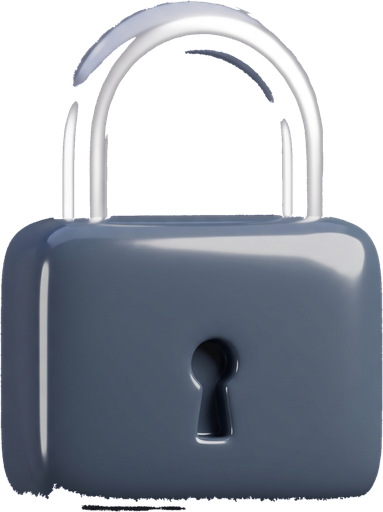
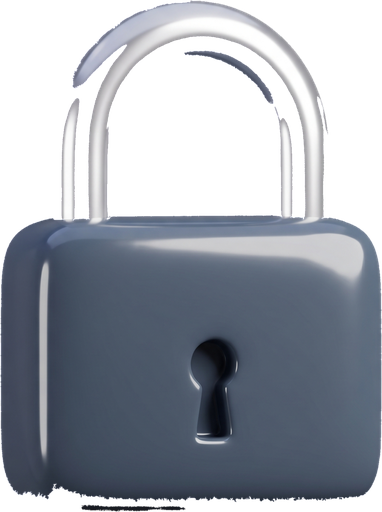
KESIM HASARI: parlaklik kapisi ve hasar tarayicisi
Kullanici bildirdi: kesilen gorsellerde ikonun kendisinden parca kopmus.
Karakter gorselinde omuzdan ve yanaktan isirik alinmisti.

SEBEP (olculerek bulundu): Karakterin siluetinde PARLAK BIR KENAR ISIGI
seridi var -- yuzeyin dondugu yerde olusan specular. O serit grilesiyor:
ne yeterince renkli ki kroma kapisina takilsin, ne yeterince parlak ki
bright=22 ile korunsun. Tasma tam onun uzerinden nesnenin icine ilerliyordu.

Uc yanlis teshis denendi ve elendi:
- Toleransi dusurmek: 45'te bile isirik duruyordu, cunku serit zaten
  zemin rengine cok yakin.
- Kroma kapisi: kenar isigi neredeyse beyaz, yani kromasi sifir; kroma
  onu korumuyor.
- Bicimsel kapama (seal): serit uzun ve genis, acma islemi 12 piksel
  yaricapta bile maskeyi %0.14 degistirdi.

COZUM: zeminin parlaklik dagilimi olculdu -- 145-168 arasi, %99.9'u 161'in
altinda. Kenar isigi ise 166+. bright esigi 22'den 6'ya cekilince ikisi
tam ayrildi; isirik tamamen kalkti, zemin eksiksiz silindi.

bright kapisi COMMON'a da eklendi (25): koyu zeminli partilerde hicbir sey
degistirmiyor ama ayni tuzagi bastan kapatiyor.

YENI ARAC tools/check_art.py: 36 gorseli tarayip "ham gorselde zeminden
acikca uzak oldugu halde ciktida saydam olan" pikselleri bildiriyor.
Bu hata gozle ancak yakinlastirilinca gorulur ve her seferinde otuz alti
gorsele bakmak mumkun degil. Esik olculerek secildi: 45 yanlis alarm
yagdirdi (yumusak golgeler, karli sahnenin beyazi, kesik biten portrenin
[…]

diff --git a/tools/cutout.py b/tools/cutout.py
@@ -68,27 +68,43 @@ def distance_to_seeds(rgb: np.ndarray, seeds: np.ndarray) -> np.ndarray:
     return np.linalg.norm(diff, axis=3).min(axis=2)
 
 
-def background_test(rgb: np.ndarray, seeds: np.ndarray,
-                    tolerance: float, neutral: float) -> np.ndarray:
+def background_test(rgb: np.ndarray, seeds: np.ndarray, tolerance: float,
+                    neutral: float, bright: float = 0.0) -> np.ndarray:
     """
     Bir piksel arka plan rengi sayılır mı?
 
-    `neutral` verilirse ikinci bir şart aranır: pikselin KROMASI (en yüksek ve
-    en düşük kanal arasındaki fark) küçük olmalı. Stüdyo fonları gri tonlamadır
-    — kroması sıfıra yakındır. Gri gövdeli bir kilit ise gri-MAVİdir; parlaklığı
-    zeminle örtüşse bile kroması onu ele verir. Bu şart olmadan kilidi zeminden
-    ayırmanın tek yolu toleransı düşürmek, o da zeminin yarısını bırakmak olur.
+    Üç şart:
+      1. Bir arka plan tohumuna yakın olacak (tolerance).
+      2. `neutral` verilirse KROMASI küçük olacak. Stüdyo fonları gri
+         tonlamadır; gri-mavi gövdeli bir kilit parlaklığı zeminle örtüşse
+         bile kroması onu ele verir.
+      3. `bright` verilirse tohumdan belirgin PARLAK OLMAYACAK.
+
+    DERS (kroma beyazı korumaz): Üçüncü şart, karakter görselinde bir hasarı
+    düzeltmek için eklendi. 3B plastik yüzeylerin parlaklık lekeleri neredeyse
+    BEYAZDIR — yani kroması sıfır. Açık gri bir zeminde tolerans yükseltilince
+    bu lekeler "arka plan" sayıldı ve karakterin yanağından, omzundan,
+    ayağından parçalar koptu. Kroma şartı onları korumadı çünkü beyaz da
+    nötrdür. Parlaklık ekseninde ayrı bir kapı gerekiyordu: zeminden yeterince
+    parlak olan hiçbir piksel arka plan olamaz.
     """
     close = distance_to_seeds(rgb, seeds) <= tolerance
+
+    channels = rgb.astype(np.int16)
     if neutral > 0:
-        channels = rgb.astype(np.int16)
         chroma = channels.max(axis=2) - channels.min(axis=2)
         close &= chroma <= neutral
+
+    if bright > 0:
+        luminance = channels.mean(axis=2)
+        seedLuminance = float(seeds.mean(axis=1).max())
+        close &= luminance <= seedLuminance + bright
+
     return close
 
 
 def region_masks(rgb: np.ndarray, seeds: np.ndarray, tolerance: float,
-                 neutral: float = 0.0, min_hole: float = 0.004):
+                 neutral: float = 0.0, bright: float = 0.0, min_hole: float = 0.004):
     """
     Arka plan rengindeki bölgeleri tek seferde etiketler ve ikiye ayırır:
     görüntünün kenarına DEĞEN bölgeler (arka plan) ve değmeyip yeterince
@@ -100,7 +116,7 @@ def region_masks(rgb: np.ndarray, seeds: np.ndarray, tolerance: float,
     Alan eşiği önemli: nesnenin üstündeki minik bir gri leke de arka plan
     rengine yakın olabilir ama delik sayılıp delinmemeli.
     """
-    close = background_test(rgb, seeds, tolerance, neutral)
+    close = background_test(rgb, seeds, tolerance, neutral, bright)
     labels, count = ndimage.label(close)
     if count == 0:
         empty = np.zeros(rgb.shape[:2], dtype=bool)
@@ -118,6 +134,32 @@ def region_masks(rgb: np.ndarray, seeds: np.ndarray, tolerance: float,
     holes = np.isin(labels, big[big > 0]) & ~background
 
     return background, holes
+
+
+def seal_channels(mask: np.ndarray, radius: int) -> np.ndarray:
+    """
+    Nesnenin içine sızan İNCE taşma kanallarını kapatır.
+
+    DERS (taşma bir dikişten içeri girer): Karakterin siluet kenarında,
+    yüzeyin döndüğü yerde ince bir gri ton şeridi var — ne yeterince parlak
+    ki parlaklık kapısına takılsın, ne yeterince renkli ki kroma kapısına.
+    Taşma o bir-iki piksellik dikişten içeri giriyor ve yanaktan bir parça
+    koparıyordu. Toleransı düşürmek işe yaramadı çünkü dikiş zaten zemin
+    rengine çok yakın.
+
+    Çözüm biçimsel: arka plan maskesine KAPAMA uygulanıyor. Kapama, dar
+    boğazları yutar ama geniş alanları olduğu gibi bırakır — yani zeminin
+    kendisi etkilenmez, yalnız nesneye giren dar kanal kesilir. Yarıçap
+    kanal genişliğinden büyük, nesnenin ince parçalarından (parmak, anten)
+    küçük seçilmeli.
+    """
+    if radius <= 0:
+        return mask
+
+    # Arka planı AŞINDIR sonra GENİŞLET: dar kanallar aşınmada kopar,
+    # geniş alanlar geri döner.
+    eroded = ndimage.binary_erosion(mask, iterations=radius, border_value=1)
+    return ndimage.binary_dilation(eroded, iterations=radius, border_value=1) & mask
 
 
 def despeckle(mask: np.ndarray, min_part: float) -> np.ndarray:
@@ -211,7 +253,7 @@ def unfringe(rgb: np.ndarray, alpha: np.ndarray, seeds: np.ndarray) -> np.ndarra
 
 DEFAULTS = dict(tolerance=40.0, trim=True, size=512, feather=0.8, local=8.0,
                 slow=False, holes=False, square=False, min_part=0.0005,
-                neutral=0.0, key=True)
+                neutral=0.0, bright=0.0, seal=0, key=True)
 
 
 def process(path: pathlib.Path, out_dir: pathlib.Path, **overrides) -> str:
@@ -220,7 +262,7 @@ def process(path: pathlib.Path, out_dir: pathlib.Path, **overrides) -> str:
     tolerance, trim, size = opt["tolerance"], opt["trim"], opt["size"]
     feather, local, slow = opt["feather"], opt["local"], opt["slow"]
     holes, square, min_part = opt["holes"], opt["square"], opt["min_part"]
-    neutral = opt["neutral"]
+    neutral, bright, seal = opt["neutral"], opt["bright"], opt["seal"]
 
     image = Image.open(path).convert("RGBA")
 
@@ -241,10 +283,11 @@ def process(path: pathlib.Path, out_dir: pathlib.Path, **overrides) -> str:
     if slow:
         mask = flood_mask(rgb, seeds, tolerance, local)
     else:
-        mask, inner = region_masks(rgb, seeds, tolerance, neutral)
+        mask, inner = region_masks(rgb, seeds, tolerance, neutral, bright)
         if holes:
             mask |= inner
 
+    mask = seal_channels(mask, int(seal))
     mask = despeckle(mask, min_part)
     covered = mask.mean()
     if covered < 0.02:
@@ -306,6 +349,10 @@ def main() -> int:
     parser.add_argument("--square", action="store_true", help="Çıktıyı kareye tamamla")
     parser.add_argument("--no-key", action="store_true",
                         help="Arka planı kesme, yalnız küçült (tam ekran zeminler için)")
+    parser.add_argument("--seal", type=int, default=0,
+                        help="Nesneye sızan ince taşma kanallarını kapatır (piksel)")
+    parser.add_argument("--bright", type=float, default=0.0,
+                        help="Zeminden bu kadar parlak pikseller asla silinmez")
     parser.add_argument("--neutral", type=float, default=0.0,
                         help="Zemin gri tonlamaysa: yalnız kroması bundan küçük pikseller silinir")
     parser.add_argument("--min-part", type=float, default=0.0005,
@@ -328,7 +375,8 @@ def main() -> int:
             print(process(path, out_dir, tolerance=args.tolerance, trim=not args.no_trim,
                           size=args.size, feather=args.feather, local=args.local,
                           holes=args.holes, square=args.square, slow=args.slow,
-                          min_part=args.min_part, neutral=args.neutral, key=not args.no_key))
+                          min_part=args.min_part, neutral=args.neutral,
+                          bright=args.bright, seal=args.seal, key=not args.no_key))
         except Exception as error:                      # tek dosya patlarsa parti durmasın
             print(f"{path.name}: HATA {error}")
 

diff --git a/Assets/_Project/Scripts/Runtime/UI/HomeScreen.cs b/Assets/_Project/Scripts/Runtime/UI/HomeScreen.cs
@@ -180,18 +180,21 @@ namespace BlockOut.Runtime.UI
 
             if (isLives)
             {
-                value = UiKit.CreateTitle($"Value_{icon}", badge.transform, "", 28,
+                // Kalbin üstündeki sayı: kalp genişliği ~100 piksel, tek/çift
+                // haneli sayı 34 puntoda ~45 piksel — taşma payı bol.
+                value = UiKit.CreateTitle($"Value_{icon}", badge.transform, "", 34,
                     CoinInk, new Color(0.42f, 0.03f, 0.03f));
                 UiKit.Place(value, 0f, 0.04f, 1f, 0.92f);
 
-                status = UiKit.CreateLabel($"Status_{icon}", bar.transform, "", 25, CoinInk);
-                UiKit.Place(status, 0.28f, 0.08f, 0.78f, 0.92f);
+                status = UiKit.CreateLabel($"Status_{icon}", bar.transform, "", 29, CoinInk);
+                UiKit.Place(status, 0.26f, 0.08f, 0.80f, 0.92f);
             }
             else
             {
-                value = UiKit.CreateTitle($"Value_{icon}", bar.transform, "", 31, CoinInk,
+                // "5000" dört hane; 36 puntoda ~95 piksel, ayrılan alan ~154.
+                value = UiKit.CreateTitle($"Value_{icon}", bar.transform, "", 36, CoinInk,
                     new Color(0.10f, 0.07f, 0.24f));
-                UiKit.Place(value, 0.26f, 0.08f, 0.78f, 0.92f);
+                UiKit.Place(value, 0.25f, 0.08f, 0.80f, 0.92f);
             }
 
             plus = UiKit.CreateIconButton($"Plus_{icon}", root, UiSkin.Get(Art.Plus));
@@ -319,31 +322,37 @@ namespace BlockOut.Runtime.UI
 
             // Ödül şeridi düğmenin ÜST KENARINA binerek durur; ayrı bir kutu
             // gibi değil, düğmeye takılmış bir etiket gibi okunsun.
-            // DERS (düz renk = boş görünür): Etiketi tek düz turuncu yapmıştım;
-            // "sade" oldu ama yüzeysiz kaldı, arkası boş bir kutu gibi durdu.
-            // Oyunun geri kalanının dili 3B plastik: her yüzeyin altında bir
-            // kalınlık var. İki katman yeter — altta koyu turuncu bir kopya,
-            // birkaç piksel aşağıda; üstünde parlak yüz. Sprite üretmeye gerek
-            // yok, aynı hissi iki dikdörtgen veriyor.
+            // DERS (rozeti ROZET yapan şey KENARIDIR): Bu etiket üç sürüm
+            // gördü — kendi sprite'ı (gölgesi kırpıldı), krem kart (alt bandı
+            // kırmızıya döndü), düz turuncu (yüzeysiz kaldı). Referanstakine
+            // bakınca eksik olanın ne olduğu görülüyor: koyu bir KENAR. Bir
+            // rozeti arka plandan ayıran, yüzündeki parlaklık değil çevresini
+            // saran o çizgidir; onsuz her renk zemine karışıyor.
+            //
+            // Üç katman: koyu kenar → parlak yüz → yüzün üst yarısında ışık.
             var ribbonRoot = UiKit.CreateRect("Ribbon", _playButton.transform);
-            // Şerit düğmenin ÜST KENARINA oturur, yüzüne değil: 0.82'den
-            // başlayınca "Seviye" yazısının üstünü kapatıyordu.
-            UiKit.Place(ribbonRoot, 0.325f, 0.96f, 0.675f, 1.40f);
+            UiKit.Place(ribbonRoot, 0.300f, 0.98f, 0.700f, 1.46f);
             _rewardRibbon = ribbonRoot;
 
-            var ribbonBase = UiKit.CreateRoundedPanel("Base", ribbonRoot,
-                new Color(0.72f, 0.32f, 0.02f));
-            ribbonBase.pixelsPerUnitMultiplier = 0.16f;
-            UiKit.Place(ribbonBase, 0f, -0.14f, 1f, 0.92f);
+            var ribbonEdge = UiKit.CreateRoundedPanel("Edge", ribbonRoot,
+                new Color(0.60f, 0.24f, 0.01f));
+            ribbonEdge.pixelsPerUnitMultiplier = 0.15f;
+            UiKit.Place(ribbonEdge, 0f, 0f, 1f, 1f);
 
             var ribbon = UiKit.CreateRoundedPanel("Face", ribbonRoot,
-                new Color(0.98f, 0.58f, 0.06f));
-            ribbon.pixelsPerUnitMultiplier = 0.16f;
-            UiKit.Place(ribbon, 0f, 0f, 1f, 1f);
+                new Color(0.98f, 0.60f, 0.07f));
+            ribbon.pixelsPerUnitMultiplier = 0.17f;
+            UiKit.Place(ribbon, 0.030f, 0.10f, 0.970f, 0.92f);
 
-            _rewardLabel = UiKit.CreateTitle("RibbonText", ribbon.transform, "", 22,
-                CoinInk, new Color(0.52f, 0.25f, 0.02f));
-            UiKit.Place(_rewardLabel, 0.05f, 0.06f, 0.95f, 0.94f);
+            var gloss = UiKit.CreateRoundedPanel("Gloss", ribbonRoot,
+                new Color(1f, 0.78f, 0.36f, 0.55f));
+            gloss.pixelsPerUnitMultiplier = 0.17f;
+            gloss.raycastTarget = false;
+            UiKit.Place(gloss, 0.075f, 0.52f, 0.925f, 0.87f);
+
+            _rewardLabel = UiKit.CreateTitle("RibbonText", ribbonRoot, "", 26,
+                CoinInk, new Color(0.42f, 0.18f, 0.01f));
+            UiKit.Place(_rewardLabel, 0.04f, 0.08f, 0.96f, 0.94f);
         }
 
         /// <summary>

diff --git a/tools/check_art.py b/tools/check_art.py
@@ -1,0 +1,101 @@
+"""
+Kesilen görsellerde HASAR arar.
+
+    python tools/check_art.py
+
+Neden gerekli: `import_art.py` sessizce çalışır ve "oldu" der. Ama kesim
+nesnenin kendisinden parça koparabilir — karakterin omzundan, ikonun
+kenarından. Bu hata gözle ancak yakınlaştırıp bakınca görülür ve otuz altı
+görselde her seferinde bakmak mümkün değil.
+
+Ölçüt: ham görselde arka plan renginden BELİRGİN uzak (yani kesinlikle
+nesneye ait) olduğu hâlde çıktıda saydam olan pikseller. Zeminin kendisi bu
+ölçüte hiç girmez, dolayısıyla yanlış alarm üretmez. Yer gölgesi gibi
+kasıtlı silinen alanlar için eşik payı bırakılır.
+"""
+
+import pathlib
+import sys
+
+import numpy as np
+from PIL import Image
+from scipy import ndimage
+
+sys.path.insert(0, str(pathlib.Path(__file__).parent))
+import cutout                                              # noqa: E402
+import import_art                                          # noqa: E402
+
+Image.MAX_IMAGE_PIXELS = None
+
+# Kesin nesne sayılmak için tohumdan en az bu kadar uzak olmalı.
+#
+# 45 denendi ve yanlış alarm yağdırdı: yumuşak gölgeler, karlı bir sahnenin
+# beyazı, kesilerek biten bir portrenin alt kenarı — hepsi "kayıp" sayıldı.
+# 70, zeminden AÇIKÇA farklı olan pikselleri seçiyor; bu eşiğin üstünde
+# silinen bir piksel gerçekten hatadır.
+CERTAIN = 70.0
+
+# Bu kadar pikselden büyük bir kayıp bildirilir. Daha küçükleri kenar
+# yumuşatmasının payıdır ve gözle görülmez.
+REPORT = 400
+
+
+def check(name: str) -> str:
+    raw_path = import_art.RAW / f"{name}.png"
+    cut_path = import_art.OUT / f"{name}.png"
+    if not raw_path.exists() or not cut_path.exists():
+        return f"{name}: dosya eksik"
+
+    settings = dict(import_art.COMMON, **import_art.RECIPES.get(name, {}))
+    if not settings.get("key", True):
+        return f"{name}: kesilmiyor, atlandı"
+
+    raw = np.array(Image.open(raw_path).convert("RGB"))
+    seeds = cutout.background_seeds(raw)
+    background, _ = cutout.region_masks(
+        raw, seeds, settings["tolerance"],
+        settings.get("neutral", 0.0), settings.get("bright", 0.0))
+
+    certain = cutout.distance_to_seeds(raw, seeds) > CERTAIN
+    lost = background & certain
+    if not lost.any():
+        return f"{name}: temiz"
+
+    labels, count = ndimage.label(lost)
+    areas = np.bincount(labels.ravel())[1:]
+    big = np.nonzero(areas >= REPORT)[0]
+    if len(big) == 0:
+        return f"{name}: temiz"
+
+    # Yer gölgesi hep en ALT şeritte olur; onu hasar saymıyoruz.
+    height = raw.shape[0]
+    real = []
+    for i in big:
+        ys = np.nonzero((labels == i + 1).any(axis=1))[0]
+        if ys.min() > height * 0.88:      # yalnız alt %12'de → gölge
+            continue
+        real.append((int(areas[i]), int(ys.min()), int(ys.max())))
+
+    if not real:
+        return f"{name}: temiz (yalnız yer gölgesi silindi)"
+
+    real.sort(reverse=True)
+    parts = ", ".join(f"{a} px (y{y0}-{y1})" for a, y0, y1 in real[:3])
+    return f"{name}: >>> HASAR — {parts}"
+
+
+def main() -> int:
+    names = sorted(p.stem for p in import_art.RAW.glob("*.png"))
+    damaged = 0
+    for name in names:
+        line = check(name)
+        print(line)
+        if "HASAR" in line:
+            damaged += 1
+
+    print(f"\n{len(names)} görsel, {damaged} hasarlı.")
+    return 1 if damaged else 0
+
+
+if __name__ == "__main__":
+    sys.exit(main())

diff --git a/tools/import_art.py b/tools/import_art.py
@@ -26,7 +26,12 @@ from cutout import process                                    # noqa: E402
 RAW = pathlib.Path(__file__).parent.parent / "art_raw"
 OUT = pathlib.Path(__file__).parent.parent / "Assets/_Project/Art/UI"
 
-COMMON = dict(tolerance=60, neutral=18, size=512)
+# bright=25: zeminden 25 birim daha parlak hiçbir piksel silinemez.
+# 3B plastik yüzeylerin parlaklık lekeleri neredeyse beyaz olduğu için
+# kromaları sıfırdır ve kroma şartı onları korumaz; parlaklık ekseninde
+# ayrı bir kapı gerekiyor. Zemin karanlıksa bu kapı hiçbir şey değiştirmez,
+# yani her partide güvenle açık kalabilir.
+COMMON = dict(tolerance=60, neutral=18, bright=25, size=512)
 
 # Yalnız ortaktan SAPAN dosyalar yazılır; gerisi COMMON ile işlenir.
 RECIPES = {
@@ -56,7 +61,16 @@ RECIPES = {
     # Karakterlerin altındaki gri zemin gölgesi ortak ayarda kalıyordu ve köy
     # zemininin üstünde gri bir şerit gibi sırıtıyordu. Tolerans 95 onu da alıyor;
     # karakterler yüksek kromalı olduğu için (turkuaz/turuncu/yeşil) risk yok.
-    "home_characters": dict(neutral=38, tolerance=95, size=1024),
+    # Tolerans ÖLÇÜLEREK seçildi: karakterin gölgeli yanak bölgesi zemin
+    # renginden 75 birim uzakta, yer gölgesinin en uzak parçası 67 birim.
+    # 72 ikisini tam ayırıyor — gölge gidiyor, karakter bütün kalıyor.
+    # Önce 95 verilmişti ve yanaktan, omuzdan, ayaktan parçalar kopuyordu.
+    # bright=6 ÖLÇÜLEREK bulundu: zeminin parlaklığı 145-168 arasında ve
+    # %99.9'u 161'in altında; karakterin siluetindeki kenar ışığı şeridi ise
+    # 166'nın üstünde. Taşma tam o şeridin üstünden ilerleyip omuzdan bir
+    # parça koparıyordu — şerit ne yeterince renkli ki kroma kapısına takılsın,
+    # ne de bright=22 ile korunacak kadar parlak. 6'ya çekmek ikisini ayırıyor.
+    "home_characters": dict(neutral=38, tolerance=72, bright=6, size=1024),
     "avatar_player":   dict(neutral=26, size=1024, feather=1.2),
     "check_green":     dict(neutral=26, size=512),
     "region_1":        dict(neutral=26, size=1024),
